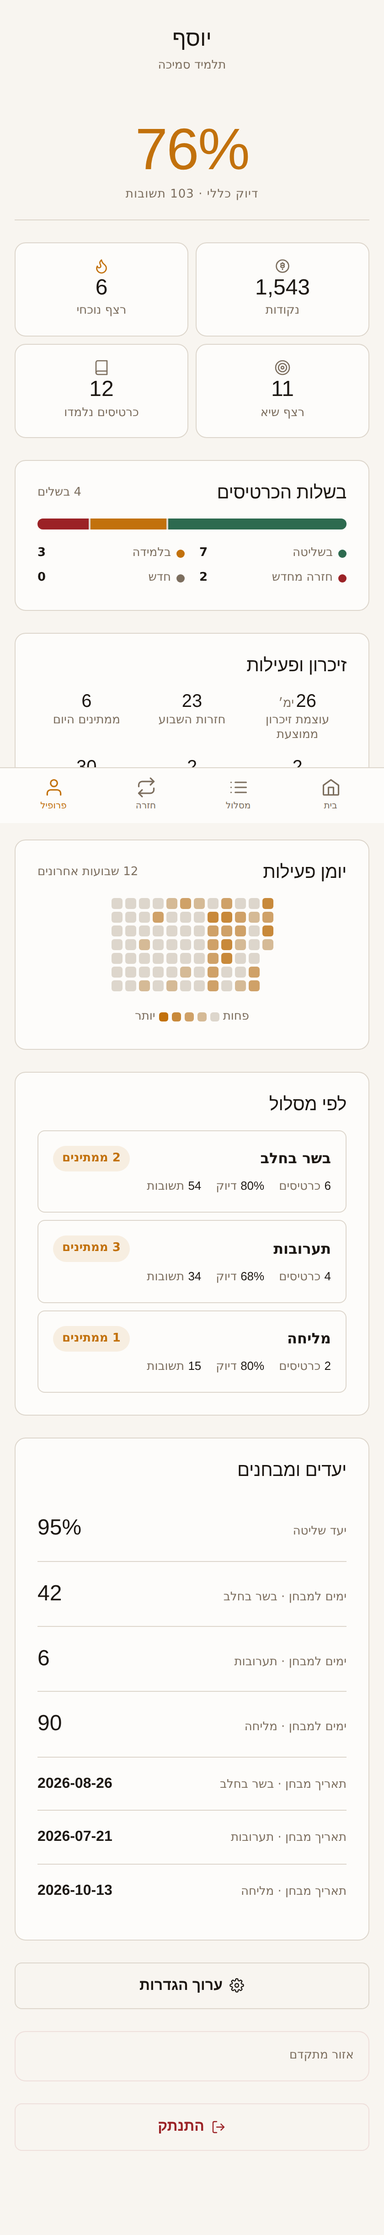
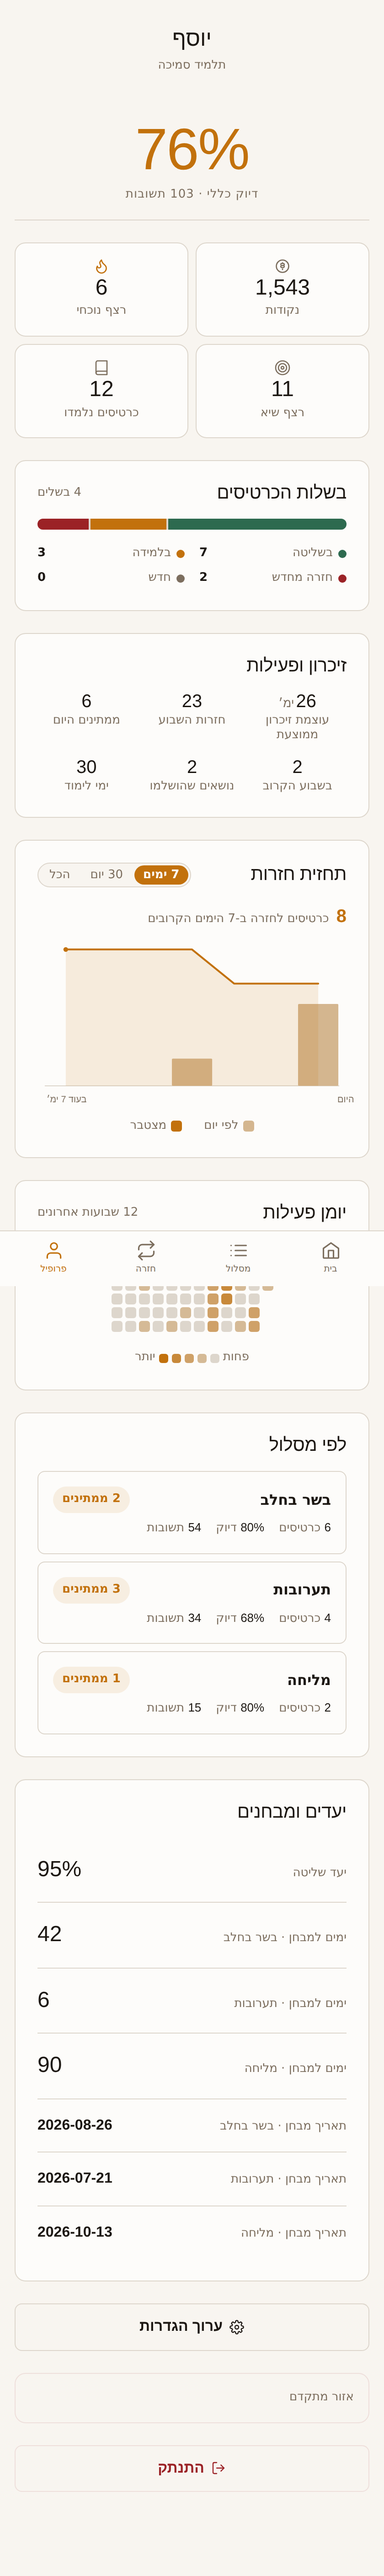
Profil : graphe de prévision des révisions (Future Due) 7 / 30 / toute la période (#56)
- _revision_forecast() : cartes dues par jour à venir (même périmètre que la
  file de révision : approuvées, parcours actifs, signalements exclus ;
  retard regroupé sur le jour 0).
- Nouvelle section « תחזית חזרות » dans /app/profil : barres par jour +
  courbe cumulée, sélecteur 7 jours / 30 jours / הכל. Rendu SVG vanilla
  côté client, orienté RTL (aujourd'hui à droite), aligné sur les tokens du
  design system.
- CSS : range-toggle + styles du graphe (fc-*). README + captures mis à jour
  (06_forecast_7/30/all).

Claude-Session: https://claude.ai/code/session_01LFfRWj7b8a9dDMUPFcDbUi

diff --git a/templates/student/profil.html b/templates/student/profil.html
@@ -103,6 +103,25 @@
     </div>
   </section>
 
+  <!-- Prévision des révisions (cartes à réviser en cumulé) -->
+  <section class="profile-section">
+    <div class="row between profile-section-head">
+      <h3 class="profile-section-title">תחזית חזרות</h3>
+      <div class="range-toggle" role="tablist" aria-label="טווח התחזית">
+        <button type="button" class="range-btn is-active" data-range="7">7 ימים</button>
+        <button type="button" class="range-btn" data-range="30">30 יום</button>
+        <button type="button" class="range-btn" data-range="all">הכל</button>
+      </div>
+    </div>
+    <div id="forecast-chart" class="forecast-chart"
+         data-daily='{{ stats.forecast.daily | tojson }}'
+         data-overdue="{{ stats.forecast.overdue }}"></div>
+    <div class="forecast-legend">
+      <span class="forecast-legend-item"><span class="forecast-swatch forecast-swatch-bar"></span> לפי יום</span>
+      <span class="forecast-legend-item"><span class="forecast-swatch forecast-swatch-cum"></span> מצטבר</span>
+    </div>
+  </section>
+
   <!-- Calendrier d'activité -->
   <section class="profile-section">
     <div class="row between profile-section-head">
@@ -212,4 +231,86 @@
   </a>
 
 </div>
+
+<script>
+(function () {
+  var el = document.getElementById('forecast-chart');
+  if (!el) return;
+  var daily = [];
+  try { daily = JSON.parse(el.dataset.daily || '[]'); } catch (e) { daily = []; }
+  var btns = document.querySelectorAll('.range-btn');
+
+  var W = 340, H = 190, padL = 8, padR = 8, padT = 14, padB = 26;
+  var plotW = W - padL - padR, plotH = H - padT - padB, baseY = padT + plotH;
+
+  function build(range) {
+    var N = (range === 'all') ? Math.max(daily.length, 1) : parseInt(range, 10);
+    var win = [];
+    for (var i = 0; i < N; i++) win.push(daily[i] || 0);
+
+    // Regroupe en paquets si la fenêtre est trop large (lisibilité).
+    var maxBars = 40;
+    var bucket = win.length > maxBars ? Math.ceil(win.length / maxBars) : 1;
+    var bars = [], cum = 0;
+    for (var k = 0; k < win.length; k += bucket) {
+      var s = 0, end = Math.min(k + bucket, win.length);
+      for (var j = k; j < end; j++) s += win[j];
+      cum += s;
+      bars.push({ due: s, cum: cum });
+    }
+    var total = cum, n = bars.length;
+    var maxDue = Math.max.apply(null, [1].concat(bars.map(function (b) { return b.due; })));
+    var maxCum = Math.max(1, total);
+    var step = plotW / n, barW = Math.max(1, step - 2), barMaxH = plotH * 0.6;
+    // RTL : aujourd'hui à droite, futur vers la gauche.
+    function cx(i) { return padL + plotW - (i + 0.5) * step; }
+
+    var svg = '<svg viewBox="0 0 ' + W + ' ' + H + '" class="forecast-svg" role="img" aria-label="תחזית חזרות">';
+    svg += '<line x1="' + padL + '" y1="' + baseY + '" x2="' + (padL + plotW) + '" y2="' + baseY + '" class="fc-axis"/>';
+    for (var b = 0; b < n; b++) {
+      var h = bars[b].due > 0 ? (bars[b].due / maxDue) * barMaxH : 0;
+      if (h > 0) svg += '<rect x="' + (cx(b) - barW / 2).toFixed(1) + '" y="' + (baseY - h).toFixed(1) +
+        '" width="' + barW.toFixed(1) + '" height="' + h.toFixed(1) + '" rx="1" class="fc-bar"/>';
+    }
+    if (n > 0) {
+      var area = 'M ' + cx(0).toFixed(1) + ',' + baseY + ' ', line = [];
+      for (var p = 0; p < n; p++) {
+        var y = baseY - (bars[p].cum / maxCum) * plotH;
+        area += 'L ' + cx(p).toFixed(1) + ',' + y.toFixed(1) + ' ';
+        line.push(cx(p).toFixed(1) + ',' + y.toFixed(1));
+      }
+      area += 'L ' + cx(n - 1).toFixed(1) + ',' + baseY + ' Z';
+      svg += '<path d="' + area + '" class="fc-area"/>';
+      svg += '<polyline points="' + line.join(' ') + '" class="fc-line"/>';
+      var ey = baseY - (total / maxCum) * plotH;
+      svg += '<circle cx="' + cx(n - 1).toFixed(1) + '" cy="' + ey.toFixed(1) + '" r="2.6" class="fc-dot"/>';
+    }
+    svg += '<text x="' + (padL + plotW - 2) + '" y="' + (H - 8) + '" class="fc-lbl" text-anchor="end">היום</text>';
+    var endLbl = 'בעוד ' + (range === 'all' ? win.length : range) + ' ימ׳';
+    svg += '<text x="' + (padL + 2) + '" y="' + (H - 8) + '" class="fc-lbl" text-anchor="end">' + endLbl + '</text>';
+    svg += '</svg>';
+    return { svg: svg, total: total };
+  }
+
+  function render(range) {
+    var sum = daily.reduce(function (a, b) { return a + b; }, 0);
+    if (!daily.length || sum === 0) {
+      el.innerHTML = '<div class="forecast-empty">אין עדיין כרטיסים מתוזמנים לחזרה.</div>';
+      return;
+    }
+    var r = build(range);
+    var scope = range === 'all' ? 'בסך הכל' : ('ב-' + range + ' הימים הקרובים');
+    el.innerHTML = '<div class="forecast-total"><b>' + r.total + '</b> כרטיסים לחזרה ' + scope + '</div>' + r.svg;
+  }
+
+  btns.forEach(function (b) {
+    b.addEventListener('click', function () {
+      btns.forEach(function (x) { x.classList.remove('is-active'); });
+      b.classList.add('is-active');
+      render(b.dataset.range);
+    });
+  });
+  render('7');
+})();
+</script>
 {% endblock %}

diff --git a/static/css/styles.css b/static/css/styles.css
@@ -1630,6 +1630,69 @@ body.has-player-exp .container { padding-bottom: calc(var(--player-exp-height, 4
 }
 .parcours-recap-stats b { color: var(--fg); font-family: 'Secular One', sans-serif; font-weight: 400; }
 
+/* --- Prévision des révisions (Future Due) --- */
+.range-toggle {
+  display: inline-flex;
+  gap: 2px;
+  padding: 2px;
+  background: var(--bg);
+  border: 1px solid var(--border);
+  border-radius: var(--radius-pill);
+}
+.range-btn {
+  border: none;
+  background: transparent;
+  color: var(--muted);
+  font-size: var(--text-xs);
+  font-family: inherit;
+  padding: 4px 10px;
+  border-radius: var(--radius-pill);
+  line-height: 1;
+}
+.range-btn.is-active { background: var(--accent); color: #fff; font-weight: 700; }
+
+.forecast-chart { margin-top: var(--space-1); }
+.forecast-total {
+  font-size: var(--text-sm);
+  color: var(--muted);
+  margin-bottom: 6px;
+}
+.forecast-total b {
+  font-family: 'Secular One', sans-serif;
+  font-size: var(--text-lg);
+  color: var(--accent);
+  margin-inline-end: 4px;
+}
+.forecast-svg { width: 100%; height: auto; display: block; overflow: visible; }
+.fc-axis { stroke: var(--border); stroke-width: 1; }
+.fc-bar { fill: color-mix(in srgb, var(--accent) 32%, var(--border)); }
+.fc-area { fill: var(--accent); opacity: 0.12; stroke: none; }
+.fc-line { fill: none; stroke: var(--accent); stroke-width: 2; stroke-linejoin: round; stroke-linecap: round; }
+.fc-dot { fill: var(--accent); }
+.fc-lbl { fill: var(--muted); font-size: 10px; font-family: 'Noto Sans Hebrew', sans-serif; }
+.forecast-empty {
+  text-align: center;
+  color: var(--muted);
+  font-size: var(--text-sm);
+  padding: var(--space-3) 0;
+}
+.forecast-legend {
+  display: flex;
+  gap: var(--space-3);
+  justify-content: center;
+  margin-top: var(--space-1);
+}
+.forecast-legend-item {
+  display: flex;
+  align-items: center;
+  gap: 5px;
+  font-size: var(--text-xs);
+  color: var(--muted);
+}
+.forecast-swatch { width: 12px; height: 12px; border-radius: 3px; display: inline-block; }
+.forecast-swatch-bar { background: color-mix(in srgb, var(--accent) 32%, var(--border)); }
+.forecast-swatch-cum { background: var(--accent); }
+
 /* ============================================================
    ACCUEIL — tuiles d'action carrées côte à côte
    ============================================================ */

diff --git a/blueprints/student.py b/blueprints/student.py
@@ -943,6 +943,44 @@ def _activity_heatmap(day_counts: dict, today: date, weeks: int = 12) -> list:
     return cols
 
 
+def _revision_forecast(user_id: str, codes: list[str], hidden_ids: set, today: date) -> dict:
+    """Prévision des cartes à réviser par jour à venir (type « Future Due »
+    d'Anki). Même périmètre que la file de révision (approuvées, parcours
+    actifs, signalements "open" exclus). Les cartes en retard (due ≤ aujourd'hui)
+    sont regroupées sur le jour 0. Retourne le nombre de cartes dues par offset
+    de jour (`daily[i]` = cartes dues dans i jours) ; le client en tire le cumul
+    sur les fenêtres 7 / 30 / toute la période."""
+    if not codes:
+        return {"daily": [], "max_offset": 0, "overdue": 0}
+    q = (
+        db.session.query(FsrsCard.due_date, func.count(FsrsCard.id))
+        .join(Question, Question.id == FsrsCard.question_id)
+        .filter(
+            FsrsCard.user_id == user_id,
+            Question.status == "approved",
+            Question.parcours.in_(codes),
+        )
+    )
+    if hidden_ids:
+        q = q.filter(Question.id.notin_(hidden_ids))
+    rows = q.group_by(FsrsCard.due_date).all()
+
+    counts: dict[int, int] = defaultdict(int)
+    overdue = 0
+    max_offset = 0
+    for due, n in rows:
+        if not due:
+            continue
+        off = (due - today).days
+        if off <= 0:
+            overdue += n
+            off = 0
+        counts[off] += n
+        max_offset = max(max_offset, off)
+    daily = [counts.get(i, 0) for i in range(0, max_offset + 1)]
+    return {"daily": daily, "max_offset": max_offset, "overdue": overdue}
+
+
 def _profile_stats(sp, codes: list[str]) -> dict:
     """Agrège les statistiques de type Anki affichées sur le profil :
     maturité des cartes, force de mémoire, activité, records de série,
@@ -1064,6 +1102,7 @@ def _profile_stats(sp, codes: list[str]) -> dict:
         "maturity": maturity,
         "per_parcours": per_parcours,
         "heatmap": _activity_heatmap(day_counts, today),
+        "forecast": _revision_forecast(user_id, codes, hidden_ids, today),
     }
 
 

diff --git a/README.md b/README.md
@@ -558,7 +558,7 @@ Retourne uniquement un tableau JSON valide, sans texte avant ou après.
 | GET | `/app/revision/aleatoire` | Session de révision aléatoire (max 10 cartes déjà apprises, retirée à chaque visite) |
 | POST | `/app/advance-revisions` | Avance toutes les cartes dues de 1 jour (outil de test) |
 | POST | `/app/reset-progress` | Efface UserAnswer + FsrsCard + Progression (nucléaire) |
-| GET | `/app/profil` | Profil — tableau de bord statistique type Anki : précision globale, KPIs (points, série courante, **série record**, cartes apprises), **maturité des cartes** (répartition par état FSRS `בשליטה`/`בלמידה`/`חזרה מחדש`/`חדש`), zone mémoire & activité (עוצמת זיכרון ממוצעת = stabilité moyenne, חזרות השבוע, ממתינים היום/השבוע, נושאים שהושלמו, ימי לימוד), **יומן פעילות** (heatmap 12 semaines), récap par parcours (cartes/précision/réponses/dus) et bloc יעדים ומבחנים (target_stability + date de מבחן par parcours). Stats calculées par `_profile_stats()` |
+| GET | `/app/profil` | Profil — tableau de bord statistique type Anki : précision globale, KPIs (points, série courante, **série record**, cartes apprises), **maturité des cartes** (répartition par état FSRS `בשליטה`/`בלמידה`/`חזרה מחדש`/`חדש`), zone mémoire & activité (עוצמת זיכרון ממוצעת = stabilité moyenne, חזרות השבוע, ממתינים היום/השבוע, נושאים שהושלמו, ימי לימוד), **תחזית חזרות** (graphe « Future Due » : cartes à réviser par jour à venir + courbe cumulée, sélecteur 7 / 30 / toute la période — données via `_revision_forecast()`, rendu SVG vanilla côté client), **יומן פעילות** (heatmap 12 semaines), récap par parcours (cartes/précision/réponses/dus) et bloc יעדים ומבחנים (target_stability + date de מבחן par parcours). Stats calculées par `_profile_stats()` |
 | GET/POST | `/app/settings` | Activer/désactiver les parcours et leur date de מבחן (≥ 1 parcours requis ; désactiver = masquer le contenu + perdre la série quotidienne du parcours), target_stability, sections |
 | GET | `/app/today-stats` | JSON : points du jour, cartes révisées, précision |
 

diff --git a/screenshots/simulations/README.md b/screenshots/simulations/README.md
@@ -10,6 +10,7 @@ Captures d'écran (viewport mobile) illustrant l'app quand un étudiant prépare
 | `03_mon_parcours.png` | Table des matières multi-parcours |
 | `04_hub_revision.png` | Hub de révision |
 | `05_choix_revision_jour.png` | Sélecteur de révision du jour (compteur de cartes dues par parcours + « הכל ») |
+| `06_forecast_7.png` / `06_forecast_30.png` / `06_forecast_all.png` | Graphe **תחזית חזרות** (Future Due) — cartes à réviser par jour à venir + courbe cumulée, sur les fenêtres 7 / 30 jours / toute la période |
 
 ## Régénérer
 
